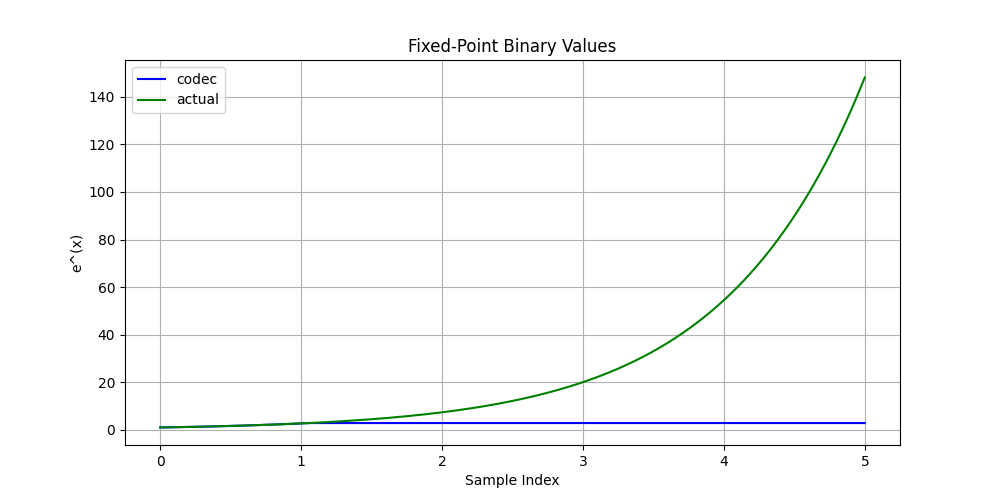
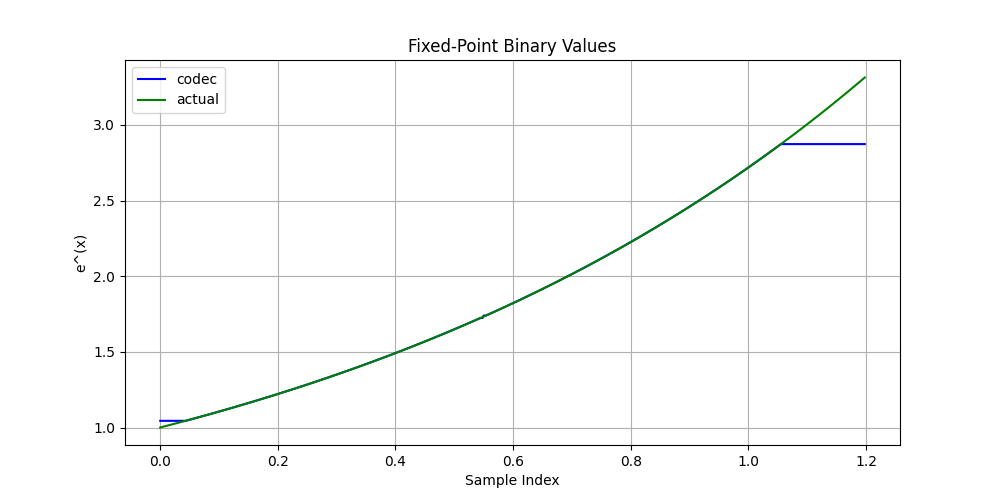
revised range of e^(x) values

diff --git a/plot_py.py b/plot_py.py
@@ -83,9 +83,9 @@ for i in range (x_ln.size-1):
 
 #plot_values(x1,data1,ycos,"cos(x)")
 #plot_values(x1,data2,ysin,"sin(x)")
-plot_values(xh[0:600],data3[0:600],ycosh[0:600],"cosh(x)")
-plot_values(xh[0:600],data4[0:600],ysinh[0:600],"sinh(x)")
-#plot_values(xh,data7,ye_x,"e^(x)")
+#plot_values(xh[0:600],data3[0:600],ycosh[0:600],"cosh(x)")
+#plot_values(xh[0:600],data4[0:600],ysinh[0:600],"sinh(x)")
+plot_values(xh[0:600],data7[0:600],ye_x[0:600],"e^(x)")
 #plot_values(xatan,data5,x,"atan(x)")
 #plot_values(xatanh,data6,yatanh[0:999],"atanh(x)")
 #plot_values(x_ln[0:899],data8,ylnx[0:899],"ln(x)")
